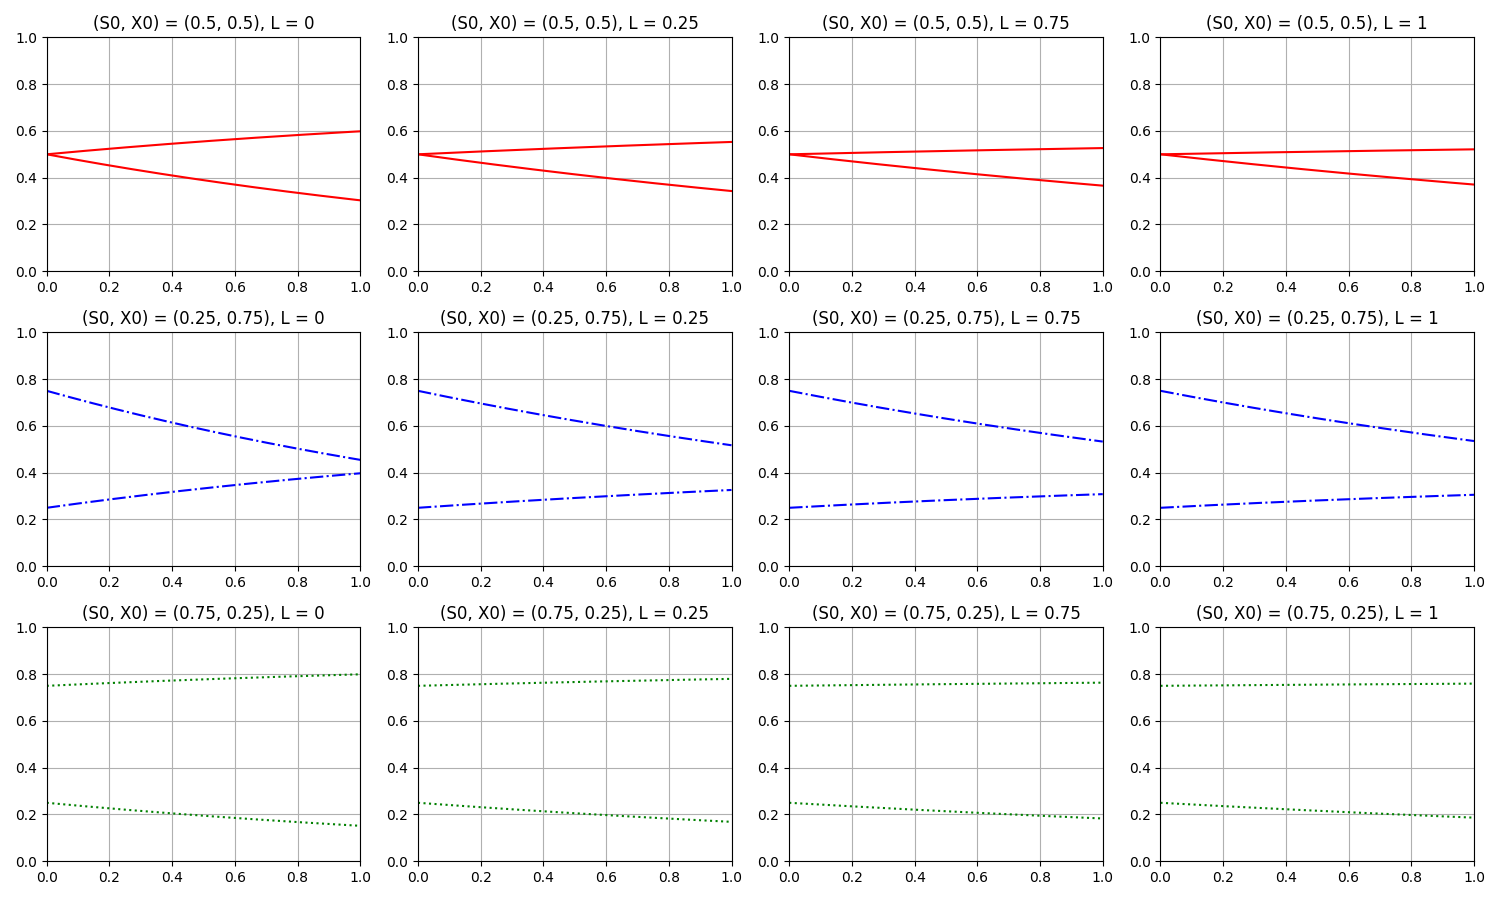
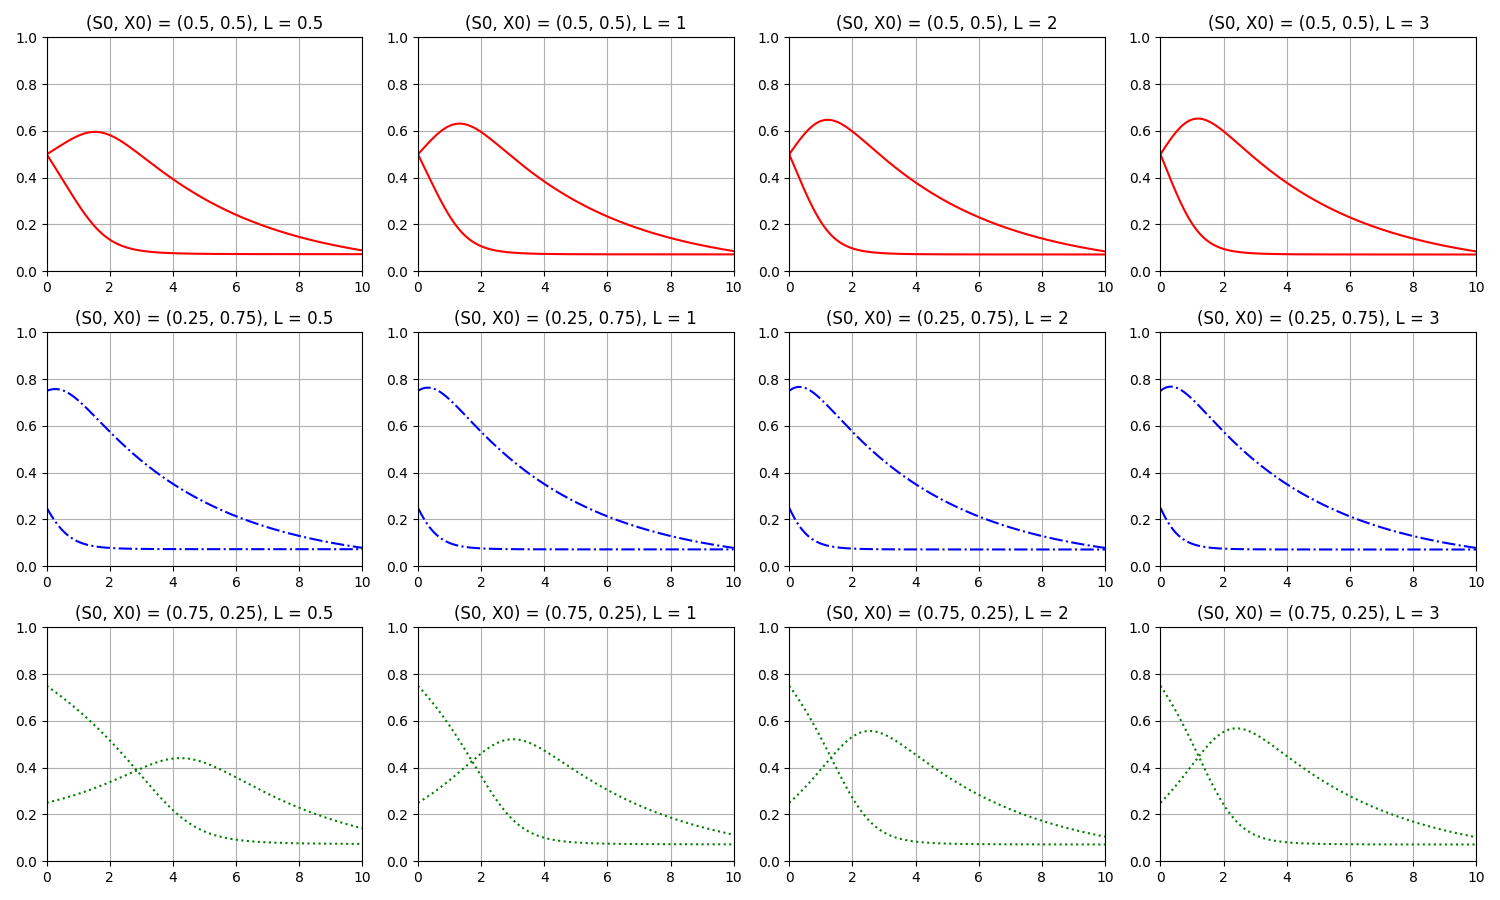
Modif model + valeurs params model de base

diff --git a/pysrc/main.py b/pysrc/main.py
@@ -12,12 +12,12 @@ from tools.analysis import Analysis
 import numpy as np
 
 
-def mainModeleBasique(mdl, phase_diag=True, exprtpng=False):
+def mainModeleBasique(mdl, phase_diag=True, exprtpng=True):
     """Affiche le modèle de base"""
     # Les axes
-    xaxis = Axis(0, 5, 15j)
+    xaxis = Axis(0, 10, 15j)
     yaxis = Axis(0, 1, 15j)
-    taxis = Axis(0, 5, 500)
+    taxis = Axis(0, 10, 500)
     # Couleurs et formes
     col = Color()
     frm = Form()
@@ -43,12 +43,12 @@ def mainModeleBasique(mdl, phase_diag=True, exprtpng=False):
         phases.portrait(mdl, cnds, xaxis, yaxis, taxis, exprtpng)
 
 
-def mainEvolParams(mdl, exprtpng=False):
+def mainEvolParams(mdl, exprtpng=True):
     """Affiche l'impact des différents paramètres du modèle"""
     # Les axes
-    xaxis = Axis(0, 1, 15j)
+    xaxis = Axis(0, 10, 15j)
     yaxis = Axis(0, 1, 15j)
-    taxis = Axis(0, 1, 500)
+    taxis = Axis(0, 10, 500)
     # Couleurs et formes
     col = Color()
     frm = Form()
@@ -62,12 +62,20 @@ def mainEvolParams(mdl, exprtpng=False):
     cnds.append((0.75, 0.25), green_dotted)
     # Analyse
     ana = Analysis(mdl.title, figsize=(15, 9))
-    for p in ["mu", "L", "k", "m", "delta"]:
-        ana.plot_evol_param(mdl, p, [0, 0.25, 0.75, 1],
-                            cnds, xaxis, yaxis, taxis, exprtpng)
+    # for p in ["mu", "L", "k", "m", "delta"]:
+    ana.plot_evol_param(mdl, "mu", [0, 1, 2, 3],
+                        cnds, xaxis, yaxis, taxis, exprtpng)
+    ana.plot_evol_param(mdl, "L", [0.5, 1, 2, 3],
+                        cnds, xaxis, yaxis, taxis, exprtpng)
+    ana.plot_evol_param(mdl, "k", [0.5, 1, 2, 3],
+                        cnds, xaxis, yaxis, taxis, exprtpng)
+    ana.plot_evol_param(mdl, "m", [0, 1, 2, 3],
+                        cnds, xaxis, yaxis, taxis, exprtpng)
+    ana.plot_evol_param(mdl, "delta", [0, 0.25, 0.75, 1],
+                        cnds, xaxis, yaxis, taxis, exprtpng)
 
 
-def mainDynamic(inf=0, sup=2):
+def mainDynamic(inf=0, sup=3):
     """Affiche la fenêtre du modèle dynamique"""
     # Les axes
     xaxis = Axis(0, 5, 15j)
@@ -81,7 +89,7 @@ def mainDynamic(inf=0, sup=2):
     # Condition initiale
     cndzr = Initial((0.5, 0.5), red_solid)
     # Plot
-    mdl = Bacteries(mu=0.5, L=0.5, k=0.5, m=0.5, delta=0.5)
+    mdl = Bacteries(mu=2, L=1, k=0.5, m=0.5, delta=0.5)
     dymodel = DynamicModel(mdl)
     dymodel.plot(cndzr, blue_dhdot, xaxis, yaxis, taxis, inf, sup)
 
@@ -125,7 +133,7 @@ def mainParams(mdl):
 
 
 if __name__ == "__main__":
-    mdl = Bacteries(mu=0.5, L=0.5, k=0.5, m=0.5, delta=0.5)
+    mdl = Bacteries(mu=2, L=1, k=0.5, m=0.5, delta=0.5)
     mainDynamic()
     mainModeleBasique(mdl)
     mainEvolParams(mdl)

diff --git a/pysrc/mdl/model_bacteries.py b/pysrc/mdl/model_bacteries.py
@@ -63,7 +63,7 @@ class Bacteries:
     def _rhs(self, z, t):
         S, X = z[0], z[1]
         mu, L, k, m, delta = self.get_params()
-        dSdt = -(mu*S*X / (k + S + (S**2/L))) + delta*m*X
+        dSdt = -(mu*S*X / (k + S + (S**2/L))) + (1 - delta)*m*X
         dXdt = (mu*S*X / (k + S + (S**2/L))) - m*X
         return [dSdt, dXdt]
 
@@ -72,7 +72,7 @@ class Bacteries:
 
     def get_field(self, S, X):
         mu, L, k, m, delta = self.get_params()
-        f = -(mu*S*X / (k + S + (S**2/L))) + delta*m*X
+        f = -(mu*S*X / (k + S + (S**2/L))) + (1 - delta)*m*X
         g = (mu*S*X / (k + S + (S**2/L))) - m*X
         return [f, g]
 
